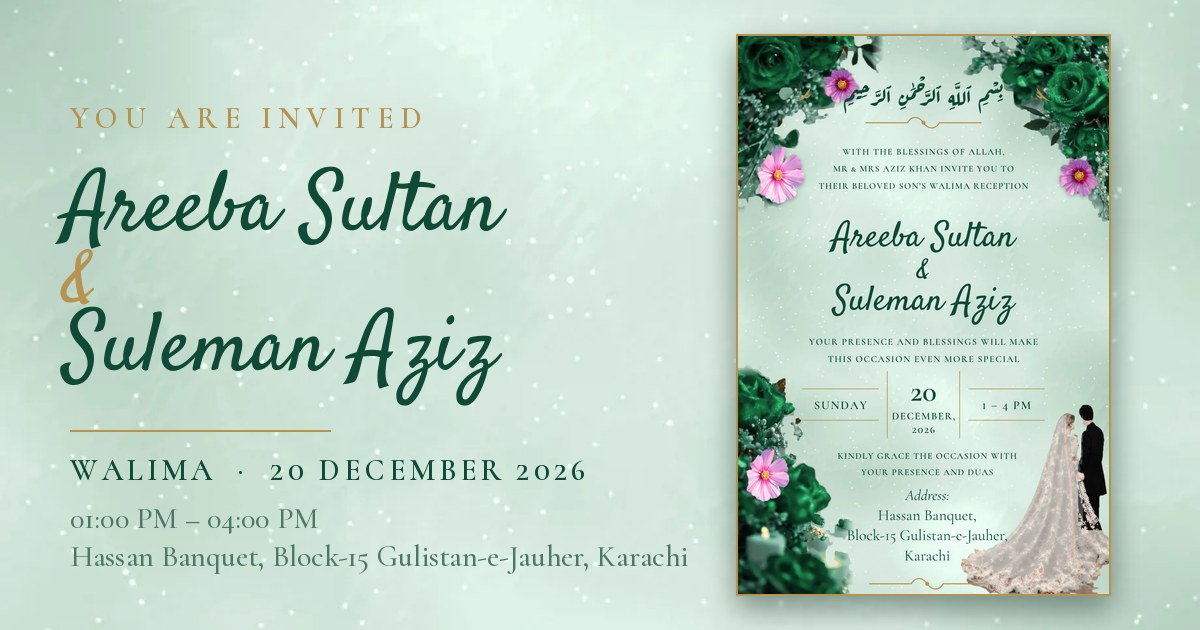
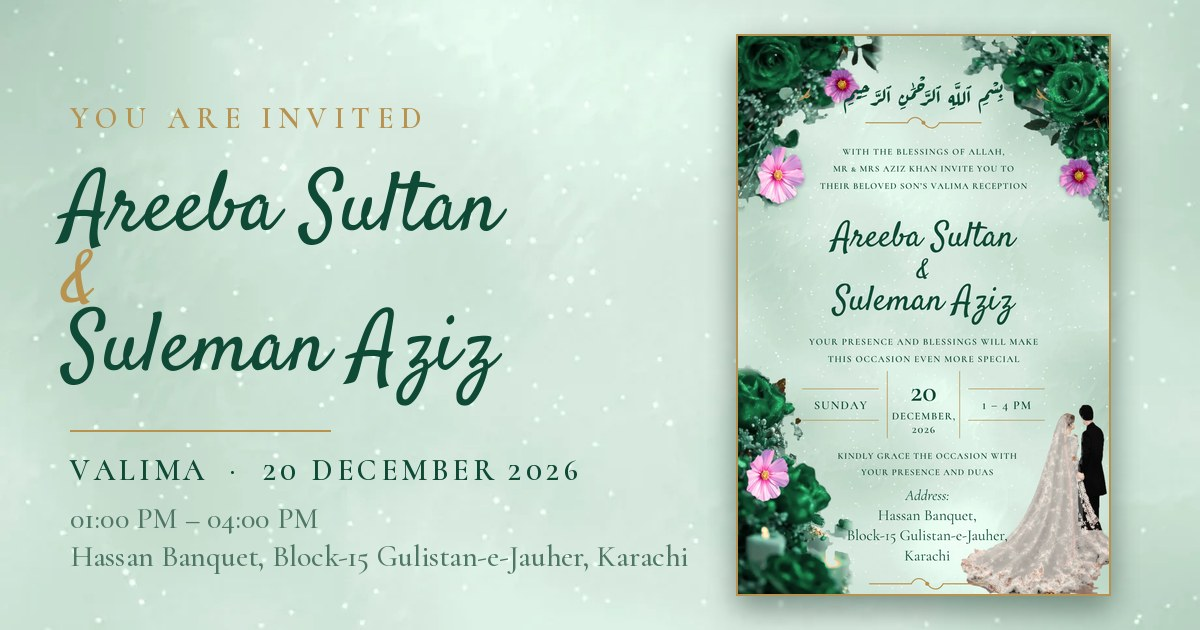
Areeba & Suleman: Walima -> Valima
Claude-Session: https://claude.ai/code/session_014mE54nZZVFzgToMktFZNKW

Changed region(s): [[0.2158, 0.7238, 0.4933, 0.7841], [0.0617, 0.7238, 0.185, 0.7841], [0.6783, 0.2714, 0.8633, 0.3016]]

diff --git a/areeba-suleman/index.html b/areeba-suleman/index.html
@@ -7,15 +7,15 @@
 <link rel="icon" href="favicon.svg" type="image/svg+xml">
 <link rel="apple-touch-icon" href="apple-touch-icon.png">
 <meta property="og:type" content="website">
-<meta property="og:title" content="Areeba Sultan &amp; Suleman Aziz – Walima Invitation">
-<meta property="og:description" content="You are invited to the Walima on Sunday, 20 December 2026, 01:00 PM – 04:00 PM at Hassan Banquet, Block-15 Gulistan-e-Jauher, Karachi.">
+<meta property="og:title" content="Areeba Sultan &amp; Suleman Aziz – Valima Invitation">
+<meta property="og:description" content="You are invited to the Valima on Sunday, 20 December 2026, 01:00 PM – 04:00 PM at Hassan Banquet, Block-15 Gulistan-e-Jauher, Karachi.">
 <meta property="og:image" content="https://areeba-suleman.vercel.app/og.jpg">
 <meta property="og:image:width" content="1200">
 <meta property="og:image:height" content="630">
 <meta name="twitter:card" content="summary_large_image">
 <meta name="twitter:image" content="https://areeba-suleman.vercel.app/og.jpg">
-<title>Areeba Sultan &amp; Suleman Aziz – Walima Invitation</title>
-<meta name="description" content="Mr and Mrs Aziz Khan invite you to the Walima reception of their beloved son Suleman Aziz and Areeba Sultan on Sunday, 20 December 2026, 01:00 PM – 04:00 PM at Hassan Banquet, Block-15 Gulistan-e-Jauher, Karachi.">
+<title>Areeba Sultan &amp; Suleman Aziz – Valima Invitation</title>
+<meta name="description" content="Mr and Mrs Aziz Khan invite you to the Valima reception of their beloved son Suleman Aziz and Areeba Sultan on Sunday, 20 December 2026, 01:00 PM – 04:00 PM at Hassan Banquet, Block-15 Gulistan-e-Jauher, Karachi.">
 <link rel="preconnect" href="https://fonts.googleapis.com">
 <link rel="preconnect" href="https://fonts.gstatic.com" crossorigin>
 <link href="https://fonts.googleapis.com/css2?family=Amiri&family=Satisfy&family=Aref+Ruqaa:wght@400;700&family=Cormorant+Garamond:ital,wght@0,400;0,600;1,400&family=Cormorant+SC:wght@500;600&family=Great+Vibes&family=Playfair+Display:ital,wght@0,400;0,600;1,400&family=Poppins:wght@300;400;600&display=swap" rel="stylesheet">
@@ -454,7 +454,7 @@
         <div class="ec-top">
           <div class="ec-bw"><svg class="lf" viewBox="0 0 24 24" aria-hidden="true"><use href="#sprig"/></svg><p class="ec-bism" lang="ar" dir="rtl">بِسْمِ ٱللَّهِ ٱلرَّحْمَٰنِ ٱلرَّحِيمِ</p><svg class="lf r" viewBox="0 0 24 24" aria-hidden="true"><use href="#sprig"/></svg></div>
           <svg class="ec-orn" aria-hidden="true"><use href="#flourish"/></svg>
-          <p class="ec-caps">With the blessings of Allah,<br>Mr &amp; Mrs Aziz Khan invite you to<br>their beloved son’s Walima reception</p>
+          <p class="ec-caps">With the blessings of Allah,<br>Mr &amp; Mrs Aziz Khan invite you to<br>their beloved son’s Valima reception</p>
         </div>
 
         <h1 class="ec-names"><span>Areeba Sultan</span><i>&amp;</i><span>Suleman Aziz</span></h1>
@@ -535,7 +535,7 @@
         <p class="h-quote">With the blessings of Allah, we begin our new life together.</p>
 
 
-        <p class="meta">20 December 2026<i>•</i>Walima<i>•</i>01:00 PM – 04:00 PM</p>
+        <p class="meta">20 December 2026<i>•</i>Valima<i>•</i>01:00 PM – 04:00 PM</p>
 
         <div class="hero-actions">
           <a class="btn primary" href="#programme">Open Invitation</a>
@@ -566,12 +566,12 @@
 
     <section id="programme" class="sec rv wrap">
       <p class="eyebrow">The day</p>
-      <h2>Walima <em>Programme</em></h2>
+      <h2>Valima <em>Programme</em></h2>
       <div class="rule"></div>
       <p class="lead">Sunday, 20 December 2026</p>
       <div class="card">
         <ol class="timeline">
-          <li><time datetime="13:00">01:00 PM – 04:00 PM</time><span>Walima Reception</span></li>
+          <li><time datetime="13:00">01:00 PM – 04:00 PM</time><span>Valima Reception</span></li>
         </ol>
       </div>
     </section>
@@ -582,10 +582,10 @@
       <div class="rule"></div>
       <p class="lead">Every second brings us closer to the beautiful celebration of Areeba Sultan and Suleman Aziz.</p>
       <div class="card">
-        <h3 style="color:var(--accent);margin-top:0">Walima</h3>
+        <h3 style="color:var(--accent);margin-top:0">Valima</h3>
         <p class="date" style="margin-top:12px">20 December 2026</p>
         <p style="margin-top:6px">01:00 PM · Hassan Banquet, Karachi</p>
-        <div class="countdown" id="countdown" role="timer" aria-label="Countdown to the Walima">
+        <div class="countdown" id="countdown" role="timer" aria-label="Countdown to the Valima">
           <div><b id="d">--</b><span>Days</span></div>
           <div><b id="h">--</b><span>Hours</span></div>
           <div><b id="m">--</b><span>Mins</span></div>
@@ -629,7 +629,7 @@
       <div class="rule"></div>
       <p class="lead">We look forward to welcoming you.</p>
       <div class="card">
-        <span class="tag"><span class="ico" aria-hidden="true">&#9670;</span>Walima</span>
+        <span class="tag"><span class="ico" aria-hidden="true">&#9670;</span>Valima</span>
         <h3>Hassan Banquet</h3>
         <p class="big">Block-15 Gulistan-e-Jauher, Karachi</p>
         <p style="margin-top:6px">Sunday, 20 December 2026 · 01:00 PM – 04:00 PM</p>
@@ -637,7 +637,7 @@
           <a class="btn primary" id="dirBtn" href="https://www.google.com/maps/dir/?api=1&destination=Hassan+Banquet+Block-15+Gulistan-e-Jauher+Karachi" target="_blank" rel="noopener">Get directions</a>
           <a class="btn" id="calGoogle" href="#" target="_blank" rel="noopener">Google Calendar</a>
           <button class="btn" id="calIcs" type="button">Phone calendar</button>
-          <p>Adds the Walima to your calendar with a reminder.</p>
+          <p>Adds the Valima to your calendar with a reminder.</p>
         </div>
       </div>
     </section>
@@ -647,7 +647,7 @@
       <h2>Dress <em>Code</em></h2>
       <div class="rule"></div>
       <div class="card">
-        <span class="tag"><span class="ico" aria-hidden="true">&#10022;</span>Walima</span>
+        <span class="tag"><span class="ico" aria-hidden="true">&#10022;</span>Valima</span>
         <h3>Formal &amp; Elegant</h3>
         <p class="big">Traditional formal attire.</p>
         <div class="palette">
@@ -673,7 +673,7 @@
       <h2>Frequently Asked <em>Questions</em></h2>
       <div class="rule"></div>
       <div class="faq">
-        <details name="faq" open><summary>What time should we arrive?</summary><p>The Walima runs from 01:00 PM to 04:00 PM. Please arrive a little early so you can be seated comfortably.</p></details>
+        <details name="faq" open><summary>What time should we arrive?</summary><p>The Valima runs from 01:00 PM to 04:00 PM. Please arrive a little early so you can be seated comfortably.</p></details>
         <details name="faq"><summary>Where is the wedding being held?</summary><p>At Hassan Banquet, Block-15 Gulistan-e-Jauher, Karachi. Tap “Get directions” in the venue section to open it in Maps.</p></details>
         <details name="faq"><summary>What is the dress code?</summary><p>Elegant traditional formal attire. Emerald green, black and ivory suit the occasion well.</p></details>
         <details name="faq"><summary>How do I confirm my attendance?</summary><p>Fill in the RSVP form below. It opens a WhatsApp message to send to the family.</p></details>
@@ -865,7 +865,7 @@
     stopTimer();stopMusic();closeMenu();
     invite.hidden=true;stage.hidden=false;stage.className='stage';
     cover.setAttribute('aria-hidden','true');
-    document.title='Areeba Sultan & Suleman Aziz – Walima Invitation';
+    document.title='Areeba Sultan & Suleman Aziz – Valima Invitation';
     input.select();window.scrollTo(0,0);
   }
   document.addEventListener('visibilitychange',function(){
@@ -932,7 +932,7 @@
     flourish(CX,23.5,32,GOLD);
     caps('With the blessings of Allah,',32,2.4,.25);
     caps('Mr & Mrs Aziz Khan invite you to',36.6,2.4,.2);
-    caps('their beloved son’s Walima reception',41.2,2.4,.2);
+    caps('their beloved son’s Valima reception',41.2,2.4,.2);
     var SC='"Satisfy","Snell Roundhand",cursive';
     center('Areeba Sultan',56.5,px(9.4)+'px '+SC);
     center('&',65,px(7)+'px '+SC);
@@ -967,7 +967,7 @@
       return new Promise(function(res){cv.toBlob(res,'image/png')});
     });
   }
-  function cardName(){return 'Areeba-Suleman-Walima-'+(guest||'Invitation').replace(/[^\w-]+/g,'-')+'.png'}
+  function cardName(){return 'Areeba-Suleman-Valima-'+(guest||'Invitation').replace(/[^\w-]+/g,'-')+'.png'}
   function busy(btn,txt){var l=btn.textContent;btn.disabled=true;btn.textContent=txt;return function(){btn.disabled=false;btn.textContent=l}}
   function saveBlob(b){
     var url=URL.createObjectURL(b),a=document.createElement('a');
@@ -980,7 +980,7 @@
       done();if(!b)return;
       var f=new File([b],cardName(),{type:'image/png'});
       if(navigator.canShare&&navigator.canShare({files:[f]})){
-        navigator.share({files:[f],title:'Areeba Sultan & Suleman Aziz',text:'You are invited to the Walima of Areeba Sultan & Suleman Aziz.'}).catch(function(){});
+        navigator.share({files:[f],title:'Areeba Sultan & Suleman Aziz',text:'You are invited to the Valima of Areeba Sultan & Suleman Aziz.'}).catch(function(){});
       }else{saveBlob(b);st.textContent='Card saved to your device. Attach it in WhatsApp to share.'}
     });
   }
@@ -1021,17 +1021,17 @@
 
   /* add to calendar (1:00 PM to 4:00 PM Pakistan time = 08:00 to 11:00 UTC) */
   (function(){
-    var T='Walima of Areeba Sultan & Suleman Aziz',L='Hassan Banquet, Block-15 Gulistan-e-Jauher, Karachi',D='Walima reception, 01:00 PM to 04:00 PM.';
+    var T='Valima of Areeba Sultan & Suleman Aziz',L='Hassan Banquet, Block-15 Gulistan-e-Jauher, Karachi',D='Valima reception, 01:00 PM to 04:00 PM.';
     $('calGoogle').href='https://calendar.google.com/calendar/render?action=TEMPLATE&text='+encodeURIComponent(T)+'&dates=20261220T080000Z/20261220T110000Z&details='+encodeURIComponent(D)+'&location='+encodeURIComponent(L);
     $('calIcs').addEventListener('click',function(){
       var ics=['BEGIN:VCALENDAR','VERSION:2.0','PRODID:-//Areeba and Suleman//Invitation//EN','CALSCALE:GREGORIAN','BEGIN:VEVENT',
-        'UID:walima-20261220@areeba-and-suleman','DTSTAMP:20261101T000000Z','DTSTART:20261220T080000Z','DTEND:20261220T110000Z',
+        'UID:valima-20261220@areeba-and-suleman','DTSTAMP:20261101T000000Z','DTSTART:20261220T080000Z','DTEND:20261220T110000Z',
         'SUMMARY:'+T.replace(/&/g,'and'),'LOCATION:'+L,'DESCRIPTION:'+D,
-        'BEGIN:VALARM','TRIGGER:-P1D','ACTION:DISPLAY','DESCRIPTION:Walima tomorrow','END:VALARM',
-        'BEGIN:VALARM','TRIGGER:-PT3H','ACTION:DISPLAY','DESCRIPTION:Walima today','END:VALARM',
+        'BEGIN:VALARM','TRIGGER:-P1D','ACTION:DISPLAY','DESCRIPTION:Valima tomorrow','END:VALARM',
+        'BEGIN:VALARM','TRIGGER:-PT3H','ACTION:DISPLAY','DESCRIPTION:Valima today','END:VALARM',
         'END:VEVENT','END:VCALENDAR'].join('\r\n');
       var b=new Blob([ics],{type:'text/calendar;charset=utf-8'}),u=URL.createObjectURL(b),a=document.createElement('a');
-      a.href=u;a.download='Areeba-Suleman-Walima.ics';document.body.appendChild(a);a.click();a.remove();setTimeout(function(){URL.revokeObjectURL(u)},5000);
+      a.href=u;a.download='Areeba-Suleman-Valima.ics';document.body.appendChild(a);a.click();a.remove();setTimeout(function(){URL.revokeObjectURL(u)},5000);
     });
   })();
 
@@ -1065,7 +1065,7 @@
     if(!att){rErr.textContent='Please choose whether you can join us.';rErr.hidden=false;return}
     rErr.hidden=true;
     var phone=clean($('rPhone').value), msg=$('rMsg').value.trim().slice(0,300);
-    var lines=['RSVP: Areeba Sultan & Suleman Aziz’s Walima, Sunday 20 December 2026','Name: '+name];
+    var lines=['RSVP: Areeba Sultan & Suleman Aziz’s Valima, Sunday 20 December 2026','Name: '+name];
     if(phone)lines.push('WhatsApp: '+phone);
     lines.push('Response: '+att);
     if(att!=='Regretfully Decline')lines.push('Guests: '+rForm.querySelector('input[name=cnt]:checked').value);
@@ -1079,7 +1079,7 @@
   /* share */
   var status=$('shareStatus');
   function pageUrl(){try{return location.origin+location.pathname}catch(_){return location.href}}
-  var shareText='You are invited to the Walima of Areeba Sultan & Suleman Aziz — Sunday, 20 December 2026, 01:00 PM – 04:00 PM, Hassan Banquet, Block-15 Gulistan-e-Jauher, Karachi.';
+  var shareText='You are invited to the Valima of Areeba Sultan & Suleman Aziz — Sunday, 20 December 2026, 01:00 PM – 04:00 PM, Hassan Banquet, Block-15 Gulistan-e-Jauher, Karachi.';
   $('shareWa').addEventListener('click',function(){openLink('https://wa.me/?text='+encodeURIComponent(shareText+'\n'+pageUrl()))});
   $('shareAny').addEventListener('click',function(){
     var url=pageUrl();
